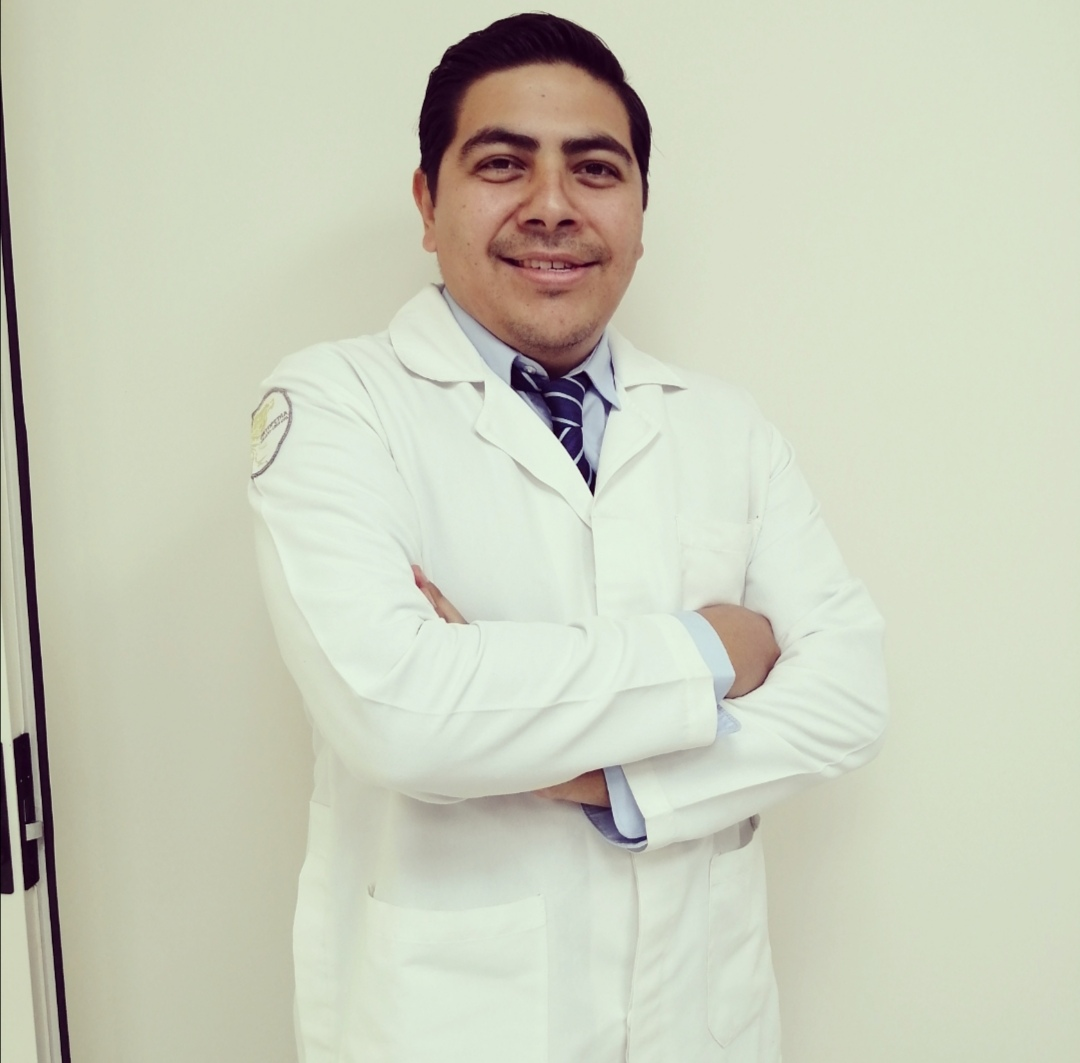
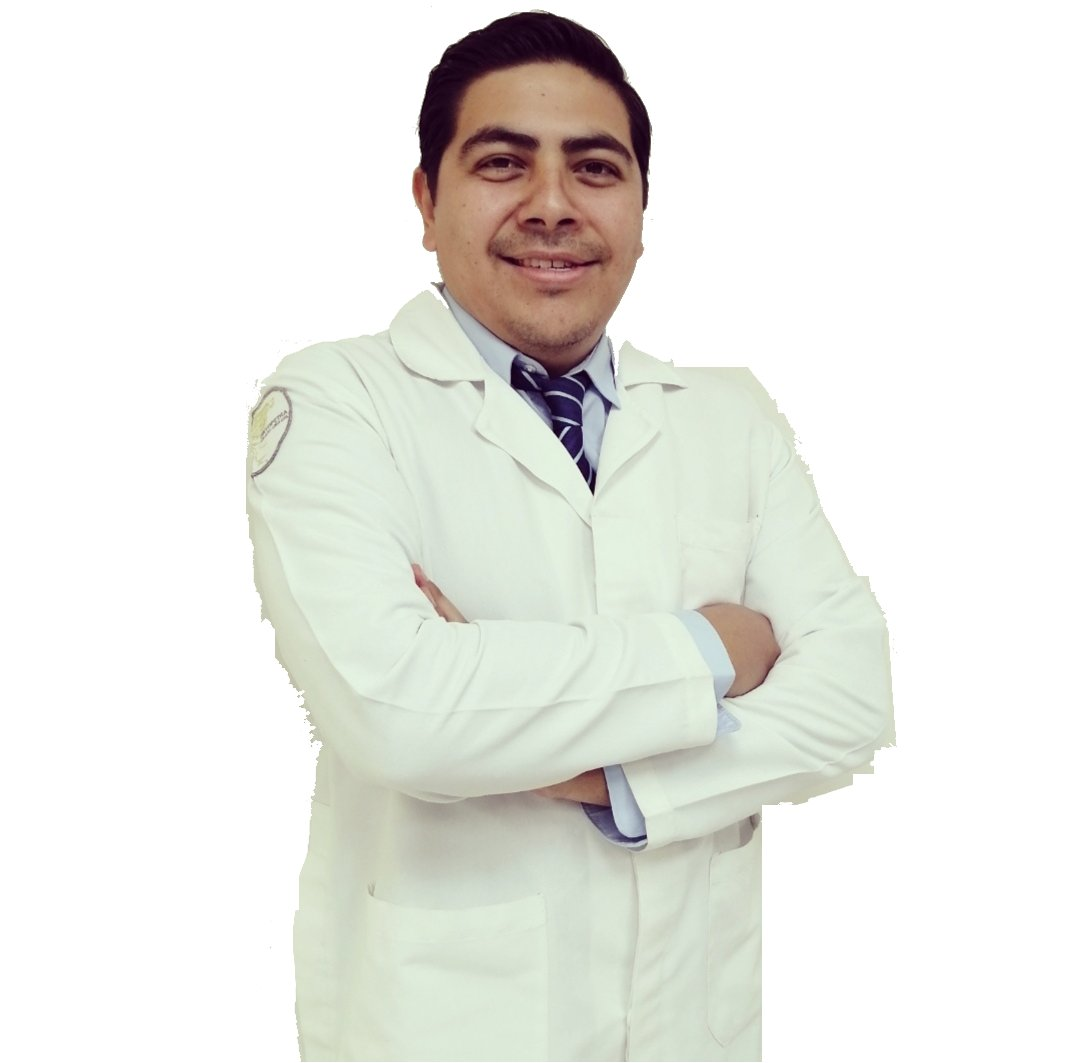
content index

diff --git a/public/assets/css/style.css b/public/assets/css/style.css
@@ -5110,5 +5110,3 @@ select:-webkit-autofill:active{
   }
 
 
-
-

diff --git a/resources/views/es/inicio/index.blade.php b/resources/views/es/inicio/index.blade.php
@@ -65,13 +65,10 @@
 				<div class="all_feature_color single_feature2 text-left">            
 					<div class="witr_feature2">					
 						<div class="witr_fea2_icon_top">
-							<i class="fas fa-wheelchair"></i>					
+							<i class="fas fa-heart"></i>					
 						</div>
-						<h3>Paralysis Disability </h3>
-						<p>While building out a new website you  literally no idea of where to start. </p>		
-						<div class="witr_feature_btn2">
-							<a class="witr_btn_all_color" href="index-2.html#">Read More +</a>
-						</div>
+						<h3>Calidez</h3>
+						<p>Te tratamos y cuidamos tu integridad y salud como familia </p>		
 						<div class="witr_feature2_icon">						
 							<i class="fas fa-wheelchair"></i>					
 						</div>					
@@ -85,11 +82,8 @@
 						<div class="witr_fea2_icon_top">
 							<i class="fas fa-briefcase-medical"></i>				
 						</div>
-						<h3>Patient of Beding</h3>
-						<p>While building out a new website you  literally no idea of where to start. </p>		
-						<div class="witr_feature_btn2">
-							<a class="witr_btn_all_color" href="index-2.html#">Read More +</a>
-						</div>
+						<h3>Confianza</h3>
+						<p>Hacemos bien el trabajo a la primera y cuidamos cada detalle</p>		
 						<div class="witr_feature2_icon">						
 							<i class="fas fa-briefcase-medical"></i>					
 						</div>					
@@ -101,13 +95,10 @@
 				<div class="all_feature_color single_feature2 text-left">            
 					<div class="witr_feature2">					
 						<div class="witr_fea2_icon_top">
-							<i class="fas fa-flask"></i>					
+							<i class="fas fa-check"></i>					
 						</div>
-						<h3>Health Laboratory</h3>
-						<p>While building out a new website you  literally no idea of where to start. </p>		
-						<div class="witr_feature_btn2">
-							<a class="witr_btn_all_color" href="index-2.html#">Read More +</a>
-						</div>
+						<h3>Calidad</h3>
+						<p>Solo utilizamos los mejores materiales, en las mas especializadas instalaciones.</p>		
 						<div class="witr_feature2_icon">						
 							<i class="fas fa-flask"></i>				
 						</div>					
@@ -125,7 +116,7 @@
 			<div class="col-lg-6 col-md-12 col-sm-12">
 				<div class="single_image_area">
 					<div class="single_image  ">
-						<img src="assets/images/about-image.png" alt="">
+						<img src="assets/images/doctor_1.png" alt="">
 					</div>
 				</div>
 				<div class="row video_area">
@@ -137,7 +128,7 @@
 									<a class="video-popup video-vemo-icon venobox vbox-item" data-vbtype="youtube" data-autoplay="true" href="https://www.youtube.com/watch?v=XHOmBV4js_E">
 										<i class="fas fa-play"></i>					
 									</a>
-									<h3>Our Watch Video! </h3>		
+									<h3>Mira nuestro Video! </h3>		
 								</div>
 							</div> 
 						</div>
@@ -148,8 +139,8 @@
 				<div class="witr_section_right">
 					<div class="witr_section_title">
 						<div class="witr_section_title_inner text-left">
-							<h2>OUR ABOUT US</h2>		
-							<h3>We Should Do For Medical About This Success.  </h3>		
+							<h2>Conoce al doctor</h2>		
+							<h3>Daniel Ponce Covarrubias</h3>		
 							<p>It is issued free of charge in medical offices or at home with  time purchase of services in the amount of more than $40 per person. ices in an elevated ambience, completed by service and report efficiency. Our Pathology division offers a comprehensive range of laboratory tests for diagnosis, management. </p>		
 						</div>
 					</div>
@@ -165,7 +156,7 @@
 									</div>
 									<div class="em-service-inner">
 										<div class="em-service-title">
-											<h3>Health Laboratory </h3>
+											<h3>Tu Experto de Confianza en Cirugía Ortopédica</h3>
 										</div>						
 										<div class="em-service-desc">
 											<p>Some of the conditions overlap with those neurologists, and others are unique to this seen younger population. </p>		
@@ -229,12 +220,12 @@
 			<div class="col-lg-12">
 				<div class="witr_section_title">
 					<div class="witr_section_title_inner text-center">
-						<h2>Our tab contant</h2>		
+						<h2>Nuestros servicios</h2>		
 						<div class="witr_image_title">								
 							<img src="assets/images/title-icon-1.png" alt="">
 						</div>
-						<h3>Medical Doctor with About</h3>
-						<h1>Best  Laboratory.</h1>		
+						<h3>Servicios Ortopédicos Integrales </h3>
+						<h1>Puerto Vallarta, México</h1>		
 					</div>
 				</div>
 			</div>
@@ -247,7 +238,7 @@
 									<span class="witr_tab_icona">
 										<i class="icofont-brain-alt"></i>
 									</span>
-									<strong>Brain-althim</strong>
+									<strong>Cirugia de Rodilla</strong>
 								</a>
 							</li>	
 							<li class="nav-item">
@@ -255,7 +246,7 @@
 									<span class="witr_tab_icona">
 										<i class="icofont-ambulance-crescent"></i>
 									</span>
-									<strong>Emergency</strong>
+									<strong>Cirugia de hombro</strong>
 								</a>
 							</li>
 							<li class="nav-item">
@@ -263,7 +254,7 @@
 									<span class="witr_tab_icona">
 										<i class="icofont-heart-beat"></i>
 									</span>
-									<strong>Heart-beat</strong>
+									<strong>Cirugia de cadera</strong>
 								</a>
 							</li>
 							<li class="nav-item">
@@ -271,7 +262,7 @@
 									<span class="witr_tab_icona">
 										<i class="icofont-blood"></i>
 									</span>
-									<strong>Blood-test</strong>
+									<strong>Cirugia de espalda</strong>
 								</a>
 							</li>	
 						</ul>

diff --git a/resources/views/en/home/index.blade.php b/resources/views/en/home/index.blade.php
@@ -13,7 +13,7 @@
 			<div class="swiper-slide witr_swiper_height" style="background-image: url(assets/images/slider-2.jpg); ">
 				<div class="witr_sw_text_area text-left">
 					<div class="witr_swiper_content ">
-						<h1>Welcome To Family Doctor! </h1>
+						<h1>Welcome To Ortobay! </h1>
 						<h2>Best Health Care For Family Doctor.</h2>
 						<p>We will help you to feel better and enjoy every single day of your life.may be the fastest growing health.</p>
 						<!-- btn gradient style -->
@@ -27,10 +27,11 @@
 					</div>
 				</div>
 			</div>
-			<div class="swiper-slide witr_swiper_height " style="background-image: url(assets/images/slider-1.jpg);">
+			<div class="swiper-slide witr_swiper_height" style="background-image: url('assets/images/daniel_ponce.png'); background-size: contain; background-repeat: no-repeat; 
+			background-position: right center; background-color: #dff3f2;">
 				<div class="witr_sw_text_area text-left">
 					<div class="witr_swiper_content ">
-						<h1>Welcome To Family Doctor! </h1>
+						<h1>Welcome To ! </h1>
 						<h2>Best Health Care For Family Doctor.</h2>
 						<p>We will help you to feel better and enjoy every single day of your life.may be the fastest growing health.</p>
 						<!-- btn gradient style -->
